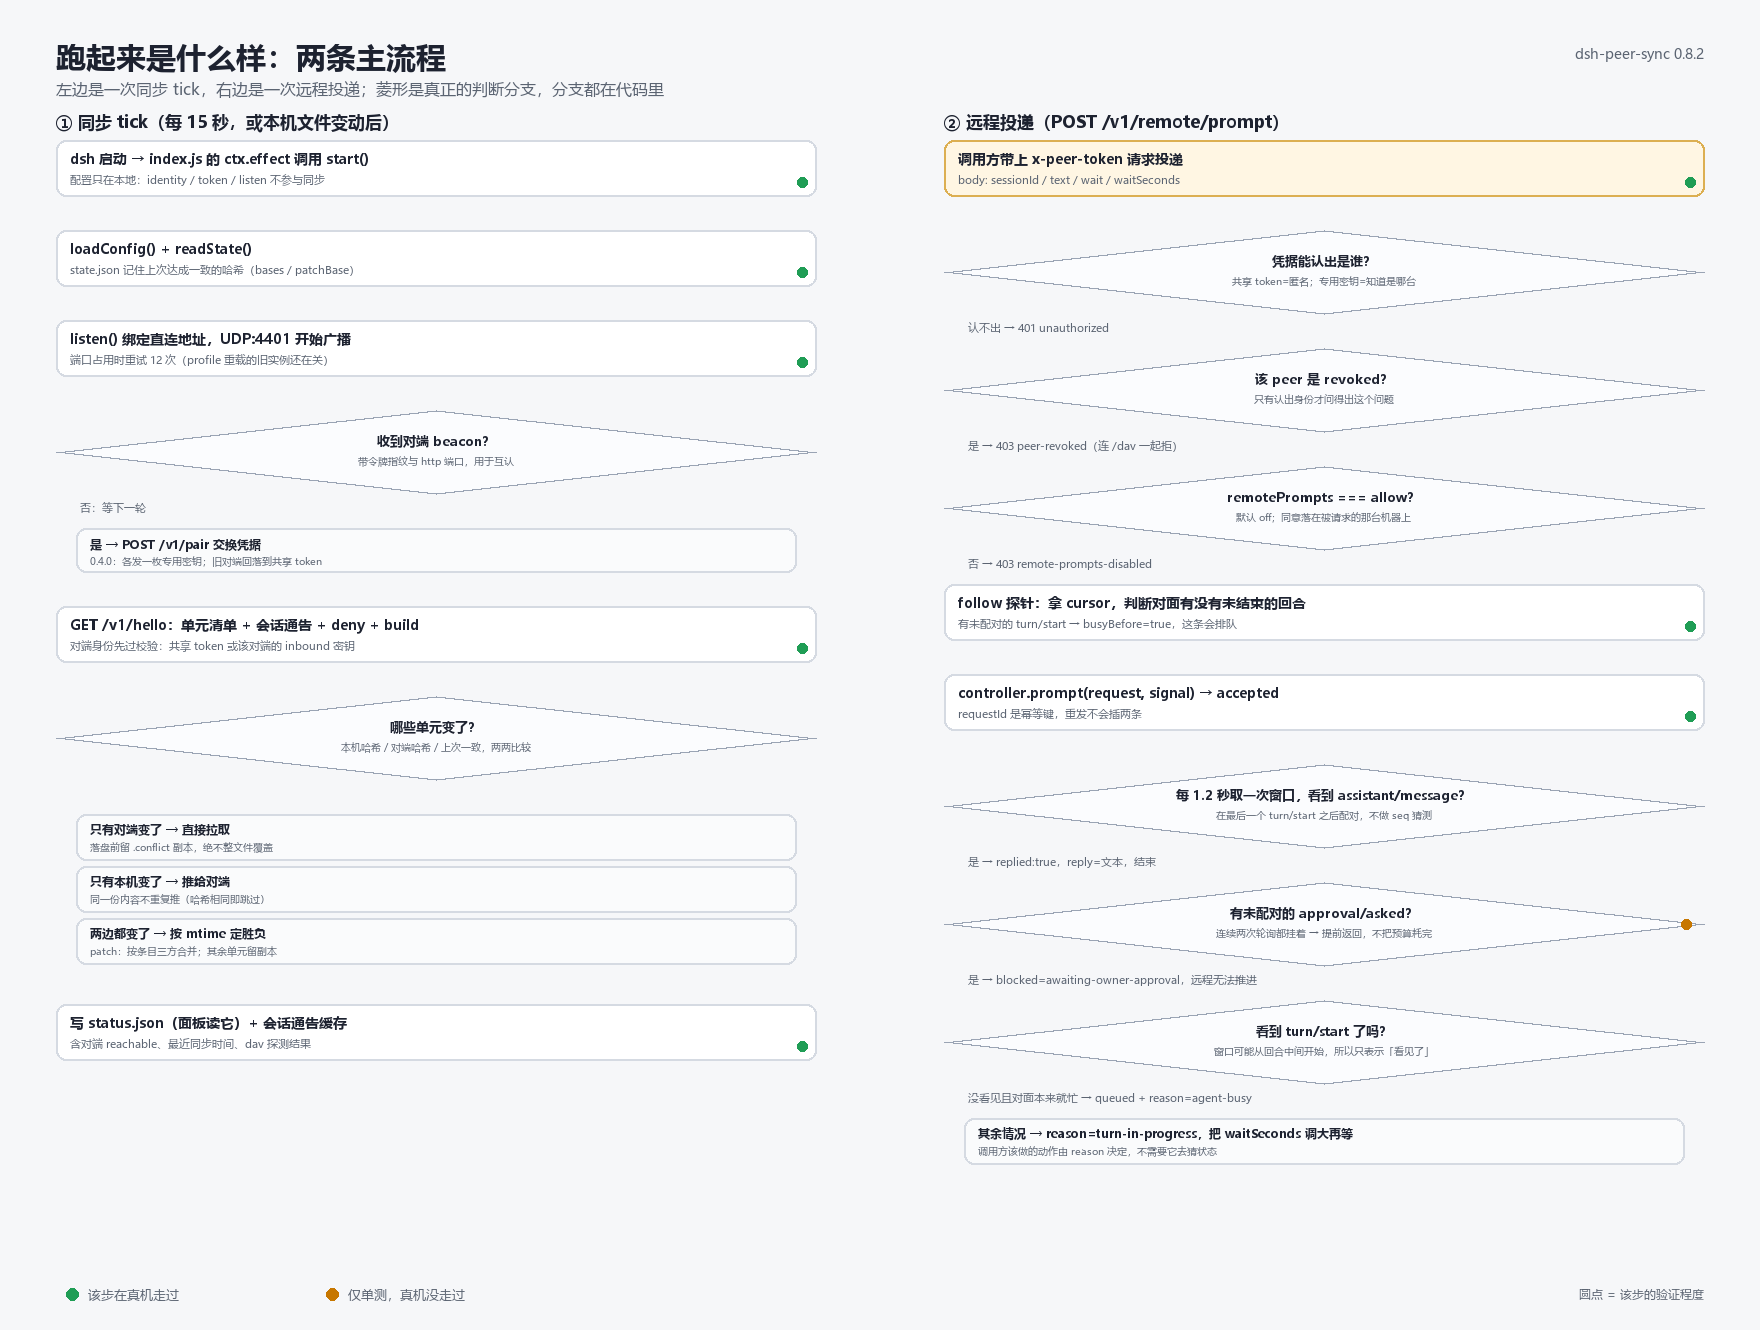
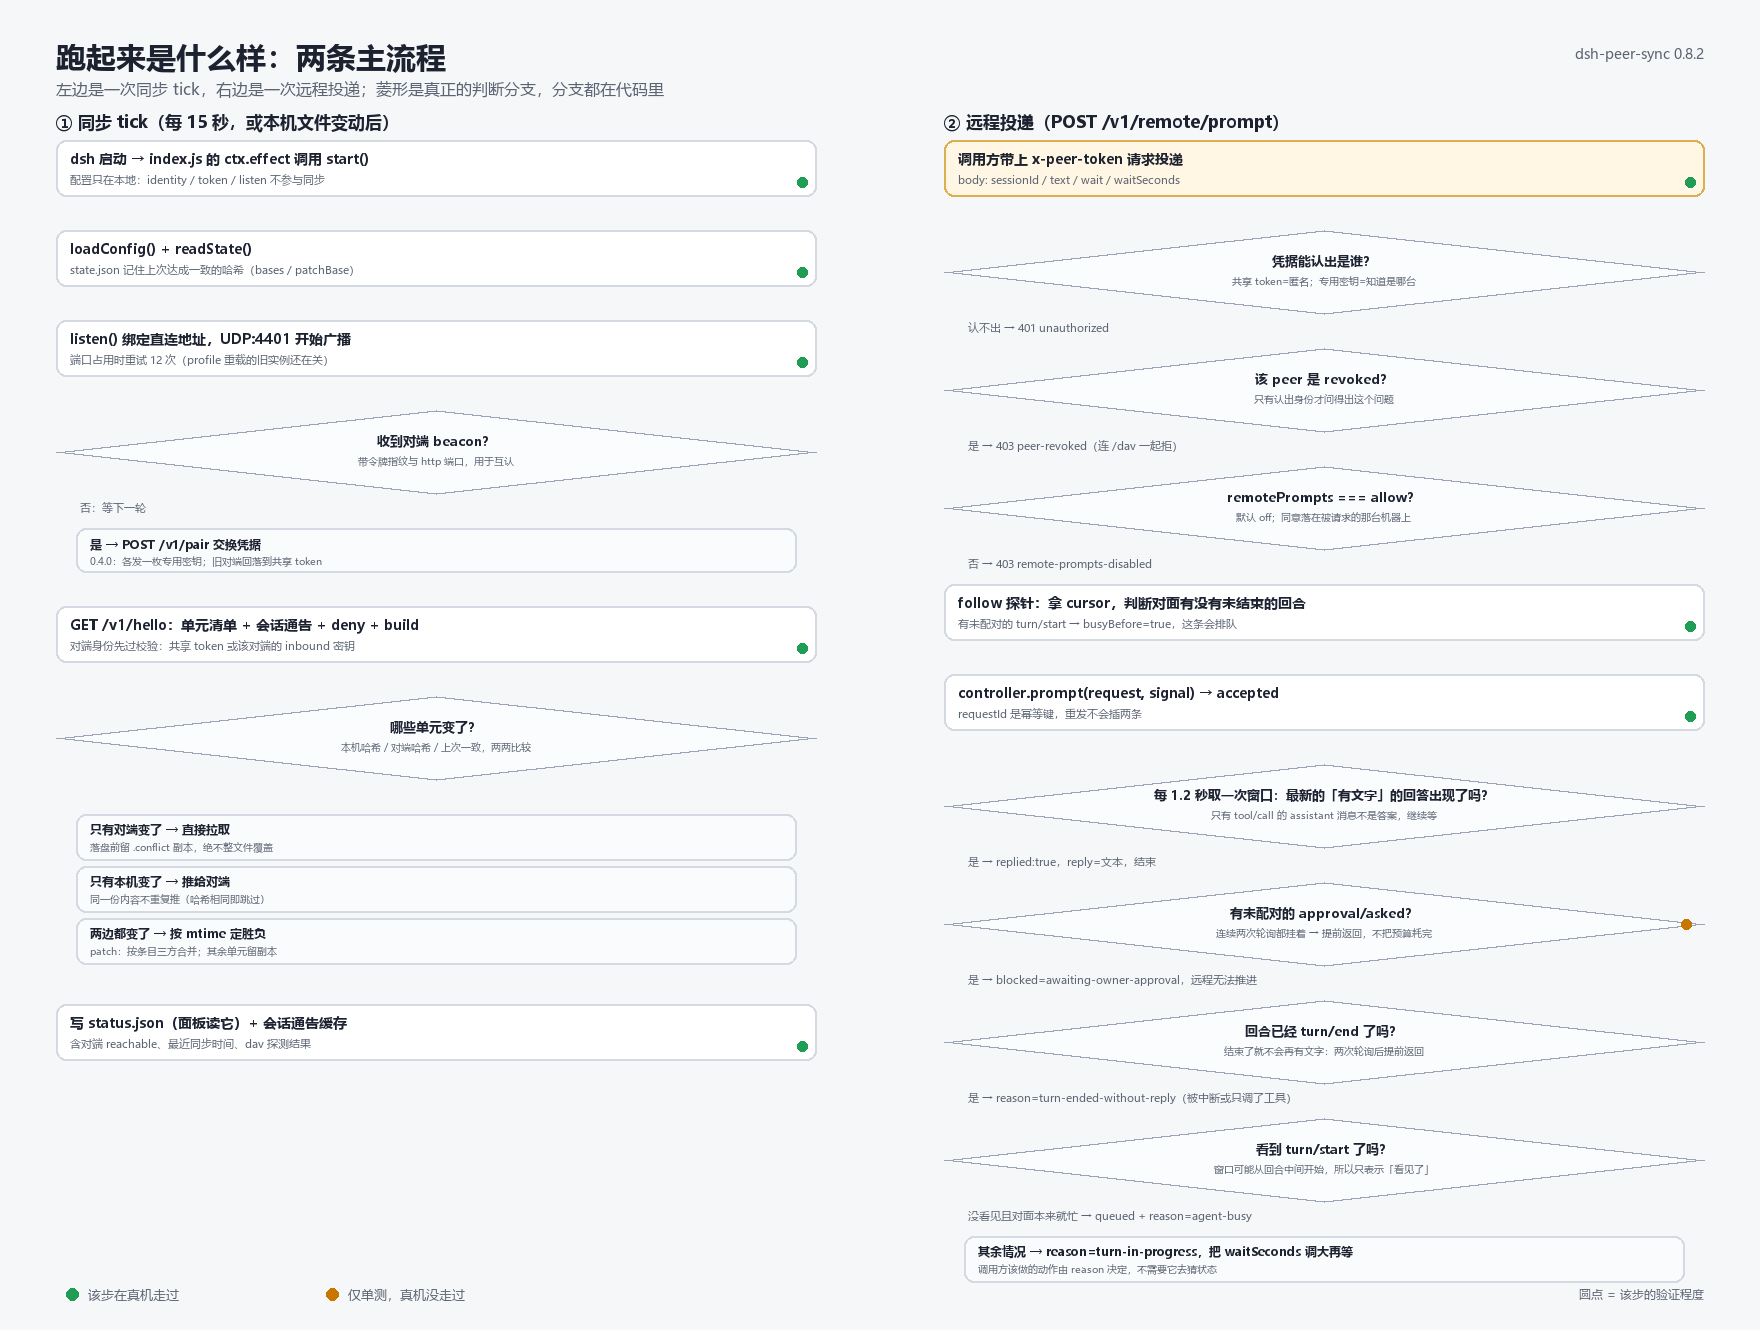
Stop waiting on a turn that has already finished
The wait loop only ended on an answer or an approval, so a cancelled turn or one that produced no text kept the caller waiting out the full budget and then reported turn-in-progress — which is wrong twice: there is nothing in progress, and no amount of waiting will change it. Two consecutive polls that see turn/end without an answer now return reason turn-ended-without-reply with a hint.

Measured with the new route: a session asked to sleep 45 seconds, cancelled at +7s, returned to the caller at 8.5s with turn-ended-without-reply instead of sitting until 120s.

The flow figure and its Mermaid source also said 'an assistant/message means done' — the rule that produced the bug — and now describe what the code does: the newest assistant message *with text*, then approval, then end-of-turn.

Changed region(s): [[0.5312, 0.7707, 0.8125, 0.9556], [0.6562, 0.5857, 0.8438, 0.6165], [0.9062, 0.8632, 0.9375, 0.894]]

diff --git a/lib/sync.js b/lib/sync.js
@@ -1058,6 +1058,8 @@ export class SyncEngine {
       let approval = null
       let approvalPolls = 0
       let sawStart = false
+      let endedPolls = 0
+      let endedWithoutReply = false
       while (Date.now() < deadline) {
         await new Promise((resolve) => setTimeout(resolve, 1200))
         let records = []
@@ -1093,6 +1095,18 @@ export class SyncEngine {
           approval = null
           approvalPolls = 0
         }
+        // A turn that has ended will not produce text later. Two polls of margin,
+        // then say so instead of sitting on the budget: a cancelled or empty turn
+        // used to look like "still running" for the full waitSeconds.
+        if (window.sawEnd) {
+          endedPolls += 1
+          if (endedPolls >= 2) {
+            endedWithoutReply = true
+            break
+          }
+        } else {
+          endedPolls = 0
+        }
       }
       controllerSignal.abort()
 
@@ -1105,6 +1119,9 @@ export class SyncEngine {
         if (approval) {
           reason = "awaiting-owner-approval"
           hint = "the owner has to approve on the machine that runs the session; a remote caller cannot clear it, so waiting longer does not help"
+        } else if (endedWithoutReply) {
+          reason = "turn-ended-without-reply"
+          hint = "the turn finished without any text; it may have been cancelled, or it may have only called tools"
         } else if (!started && busyBefore) {
           reason = "agent-busy"
         } else if (!started) {

diff --git a/client.js b/client.js
@@ -165,6 +165,7 @@ window.__ModuleLoader__.load({
       'agent-busy': ['对端前面还有一个回合在跑，这条排在它后面', 'a turn is already running there; this one is queued'],
       'awaiting-owner-approval': ['对端卡在一个需要本机批准的审批上，等多久都不会动', 'blocked on an approval only the owner can click'],
       'turn-in-progress': ['对端还在跑，等待上限到了', 'still running when the wait budget expired'],
+      'turn-ended-without-reply': ['对端那个回合结束了但没说话（可能被中断，或只调用了工具）', 'the turn ended without text (cancelled, or tools only)'],
       'not-started': ['对端收到了，但没有开回合', 'accepted, but no turn started'],
       'remote-prompts-disabled': ['对端没有允许远程投递（remotePrompts）', 'the peer does not allow remote prompts'],
       'peer-revoked': ['这个对端已被撤销，先恢复信任', 'this peer is revoked; restore trust first'],

diff --git a/docs/render-architecture.py b/docs/render-architecture.py
@@ -159,7 +159,7 @@ ROWS = [
     ("DAV 挂载 + 断线探测", "macOS mounted:true, entries:2", DONE),
     ("设置面板渲染", "真机面板已渲染（用户确认）", DONE),
     ("会话生命周期（建/投/中断/归档）", "建→投 NEW-REMOTE；跨机归档 d7e8bd03 成功", DONE),
-    ("预算到期后取回答案", "1s 预算 → 8s 后 /result 拿到正文", DONE),
+    ("等待循环：到期取回 / 结束即返", "1s 预算 → 8s 取回；中断后 8.5s 返回 ended", DONE),
 ]
 
 col_x = [72, 72 + (W - 144) // 2]

diff --git a/docs/architecture.md b/docs/architecture.md
@@ -131,11 +131,13 @@ flowchart TD
   D -- "否" --> D1["403 remote-prompts-disabled"]
   D -- "是" --> E["follow 探针<br/>cursor + busyBefore"]
   E --> F["controller.prompt → accepted<br/>requestId 是幂等键"]
-  F --> G{"窗口里有 assistant/message?"}
+  F --> G{"最新的「有文字」的回答出现了吗?<br/>只有 tool/cail 的 assistant 消息不算"}
   G -- "是" --> G1["replied: true + reply"]
   G -- "否" --> H{"有未配对的 approval/asked?"}
   H -- "是" --> H1["blocked = awaiting-owner-approval<br/>远程无法推进"]
-  H -- "否" --> I{"看到 turn/start?"}
+  H -- "否" --> J{"回合已经 turn/end 了吗?"}
+  J -- "是" --> J1["reason = turn-ended-without-reply"]
+  J -- "否" --> I{"看到 turn/start?"}
   I -- "没看见且对面忙" --> I1["queued + reason=agent-busy"]
   I -- "看见了但没答完" --> I2["reason=turn-in-progress"]
 ```
@@ -157,6 +159,7 @@ flowchart TD
 | 会话生命周期（建/投/中断/归档） | 已实测 | 面板建到对端 → 投入 `NEW-REMOTE-OK`；中断 → `turn/end`；归档本机通 |
 | 在对端归档（跨机） | 已实测 | 我的面板归档她的 `d7e8bd03` → `archived:true` |
 | 预算到期后取回答案 | 已实测 | 1 秒预算 → `turn-in-progress`；8 秒后 `/v1/remote/result` 拿到正文 |
+| 结束即返回 | 已实测 | `sleep 45` 任务第 7 秒被中断，调用方 8.5 秒拿到 `turn-ended-without-reply` |
 | 通告缓存的水合 | 已实测 | 撤销对端（不再有 hello）+ 重载 → 面板仍有 10 条，只能来自 `advert.json` |
 | 建会话自动命名 | 已实测 | 她的入站回 `title: "来自 win 的会话"`，投影与通告都非空 |
 

diff --git a/README.md b/README.md
@@ -144,6 +144,11 @@ curl.exe -X POST http://10.77.0.2:4399/v1/remote/prompt `
 | `queued: true`、`reason: "agent-busy"` | 对面本来就有没结束的回合（`busyBefore: true`），你这条排队 | 等，或稍后重投 |
 | `blocked: "awaiting-owner-approval"` | 回合卡在**拥有方审批**上，`approval` 带 `id`/`tool`/`reason` | **等多久都没用**，得那台机器上的人点一下 |
 | `reason: "turn-in-progress"` | 回合在跑，预算内没答完 | 加大 `waitSeconds` 再等 |
+| `reason: "turn-ended-without-reply"` | 回合已经结束，但没产出任何文字（被中断，或只调用了工具） | 不用再等；看日志或重新投一条 |
+
+等待循环只看**最新的、有文字的** assistant 消息：只带 `tool/call` 的消息不是答案，继续等。这一点曾经写错过——把"看见 `assistant/message`"当成答完，于是每个用工具的回合都在第一次轮询就误报"还在跑"。
+
+另外，回合一旦 `turn/end`，两次轮询内就提前返回 `turn-ended-without-reply`，不会把预算耗在"已经不会有答案"的回合上。实测：一条 `sleep 45` 的任务在第 7 秒被中断，调用方 **8.5 秒**就拿到这个 reason，而不是等满 120 秒。
 
 审批这一档不是猜出来的：`approval/asked` 之后没有配对的 `approval/decided`（`approval/policy`、`approval/cancelled` 会一次性清空）就是挂着。连续两次轮询都挂着就提前返回，不把预算耗在等一个人上。实测对面卡过 8 小时 19 分，审批框一直没人点——远程这侧原本只能看到"没回话"，看不出是这个原因。
 
